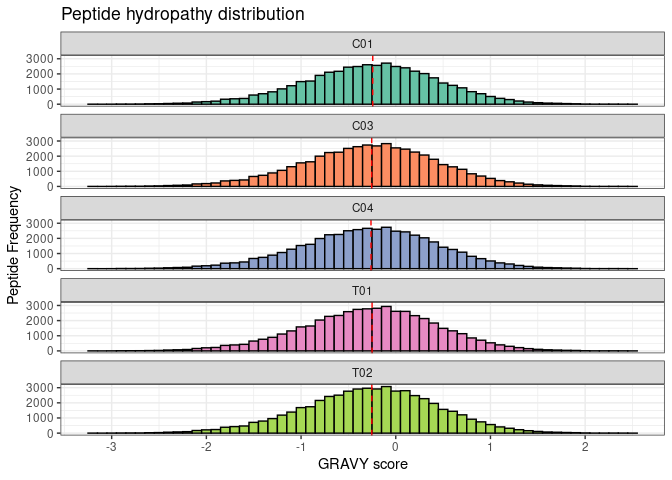
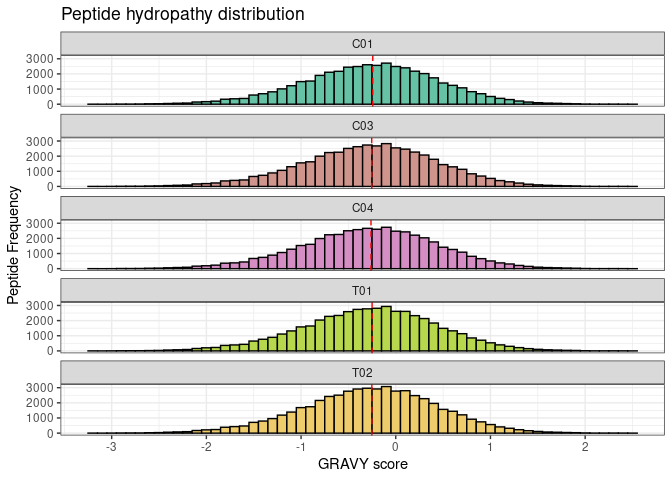
colour ramp created

diff --git a/README.md b/README.md
@@ -71,7 +71,7 @@ PlotProteinsIdentified(proteinGroups, intensity_type = 'Intensity', long_names =
 <img src="man/figures/README-PlotProteins-1.png" width="100%" />
 
 ``` r
-PlotPeptidesIdentified(summary, long_names = FALSE, sep_names = '_')
+PlotPeptidesIdentified(summary, long_names = TRUE, sep_names = '_')
 ```
 
 <img src="man/figures/README-PeptidesIdentified-1.png" width="100%" />
@@ -119,14 +119,14 @@ PlotIdentificationType(peptides,proteinGroups, long_names = TRUE, sep_names = '_
 <img src="man/figures/README-IdentificationType-1.png" width="100%" />
 
 ``` r
-PlotIntensity(proteinGroups, split_violin_intensity = FALSE, intensity_type = 'Intensity', 
-              log_base = 2, long_names = FALSE, sep_names = '_')
+PlotIntensity(proteinGroups, split_violin_intensity = TRUE, intensity_type = 'Intensity', 
+              log_base = 2, long_names = TRUE, sep_names = '_')
 ```
 
 <img src="man/figures/README-PlotIntensity-1.png" width="100%" />
 
 ``` r
-PlotPCA(proteinGroups, intensity_type = 'Intensity')
+PlotPCA(proteinGroups, intensity_type = 'Intensity', palette = 'Set2')
 ```
 
 <img src="man/figures/README-PlotPCA-1.png" width="100%" />
